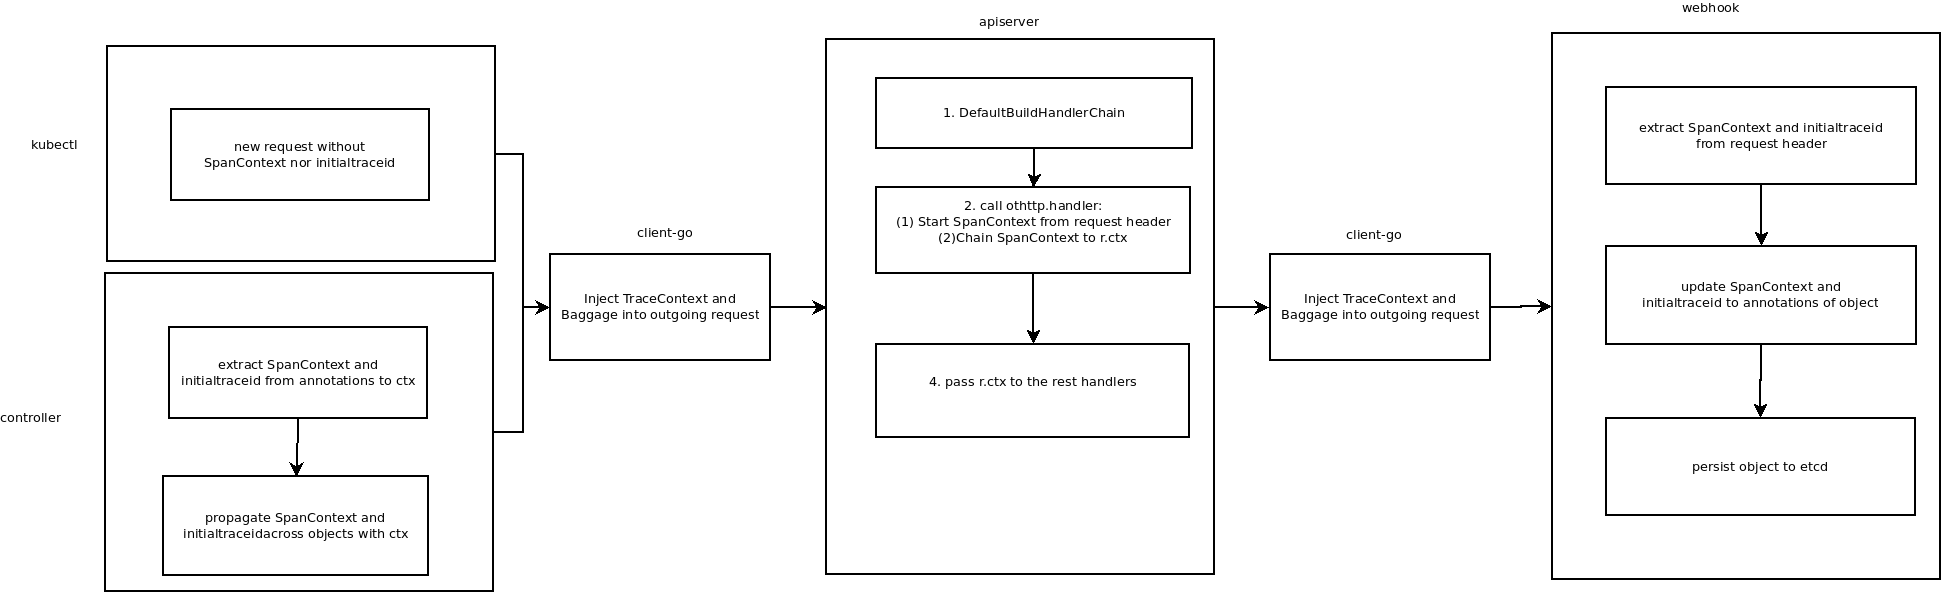
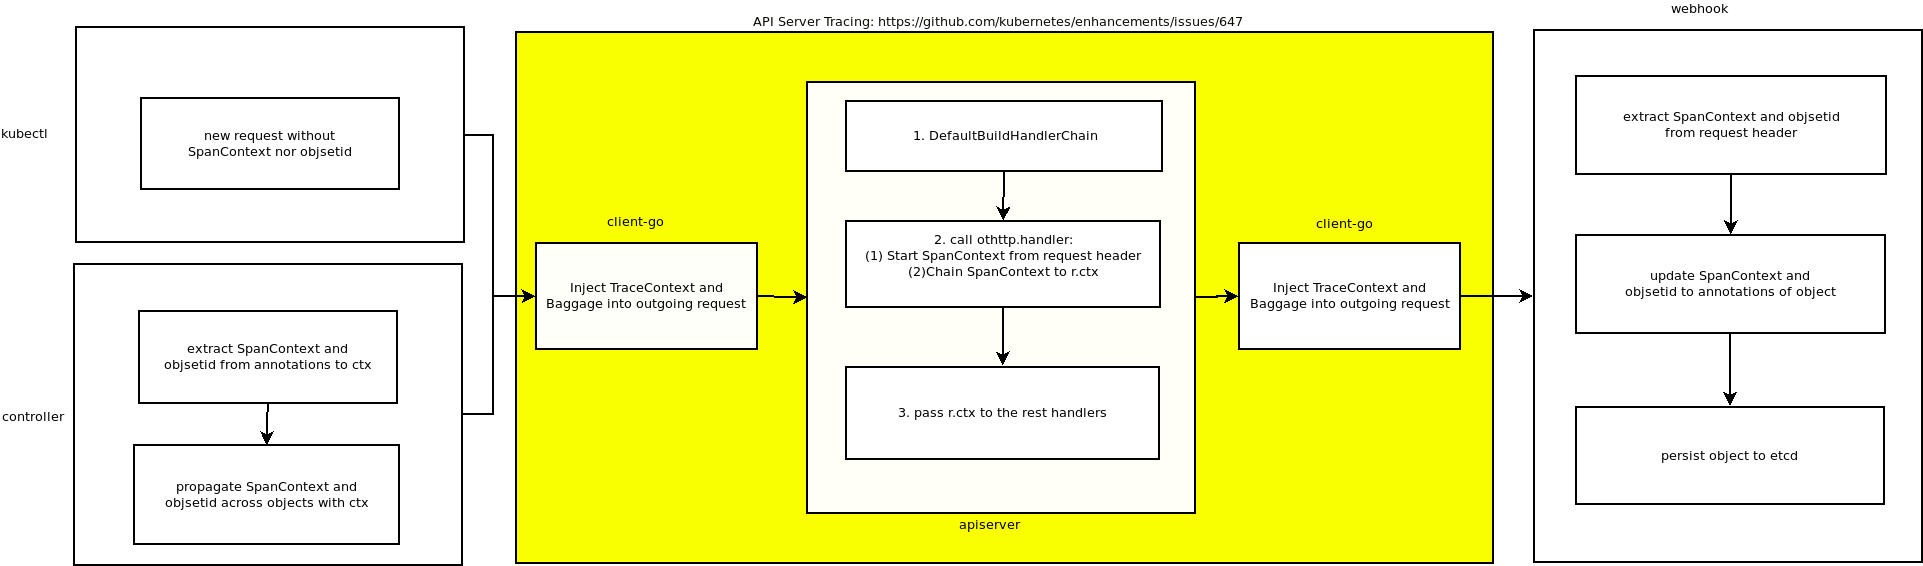
Address comments
- Use objsetid instead initialtraceid[1]
- Update summary[2]
- s/NOTE/Opt-in for Components
- Remove unclear section[3]
- Add Background section[4]
- Update controller section[5]
- Add new section: Behaviors with and without Mutating webhook
- update overview.png
- Move logging metadata to webhook section

[1]: https://github.com/kubernetes/enhancements/pull/1961#discussion_r530735151
[2]: https://github.com/kubernetes/enhancements/pull/1961#discussion_r535489046
[3]: https://github.com/kubernetes/enhancements/pull/1961#discussion_r535493398
[4]: https://github.com/kubernetes/enhancements/pull/1961#discussion_r535493569
[5]: https://github.com/kubernetes/enhancements/pull/1961#discussion_r535519134

diff --git a/keps/sig-instrumentation/1668-log-tracking/README.md b/keps/sig-instrumentation/1668-log-tracking/README.md
@@ -3,23 +3,24 @@
 <!-- toc -->
 - [Release Signoff Checklist](#release-signoff-checklist)
 - [Summary](#summary)
-  - [New three unique logging meta-data](#new-three-unique-logging-meta-data)
-  - [Note](#note)
+  - [New three unique logging metadata](#new-three-unique-logging-metadata)
+  - [Opt-in for Components](#opt-in-for-components)
 - [Motivation](#motivation)
   - [Goals](#goals)
   - [Non-Goals](#non-goals)
+- [Background](#background)
 - [Proposal](#proposal)
   - [User Stories (Optional)](#user-stories-optional)
     - [Story 1](#story-1)
     - [Story 2](#story-2)
   - [Summary of Cases](#summary-of-cases)
-  - [Logging metadata](#logging-metadata)
 - [Design Details](#design-details)
   - [Prerequisite](#prerequisite)
-  - [API Server Tracing](#api-server-tracing)
   - [Design of ID propagation (controller)](#design-of-id-propagation-controller)
-  - [Design of ID propagation in <a href="https://github.com/kubernetes/client-go">client-go</a>](#design-of-id-propagation-in-client-go)
   - [Design of Mutating webhook(Out of tree)](#design-of-mutating-webhookout-of-tree)
+  - [Behaviors with and without Mutating webhook](#behaviors-with-and-without-mutating-webhook)
+    - [with Mutating webhook](#with-mutating-webhook)
+    - [without Mutating webhook](#without-mutating-webhook)
   - [Risks and Mitigations](#risks-and-mitigations)
   - [Test Plan](#test-plan)
   - [Graduation Criteria](#graduation-criteria)
@@ -53,26 +54,24 @@ Items marked with (R) are required *prior to targeting to a milestone / release*
 
 ## Summary
 
-This KEP proposes a method for adding new three unique logging meta-data into K8s component logs.
-It makes us more easy to identify specific logs related to an user request (such as `kubectl apply`) and object (such as Pod, Deployment).
-It is expected to reduce investigation cost greatly when trouble shoothing.
+This KEP proposes a method for adding new three unique logging metadata into annotation of objects and propagating them across components. Then the K8S components have ability to *track/filter* logs of all relevant object sets in need that makes us more easy to identify specific logs related to an user request (such as `kubectl apply`) and object (such as Pod, Deployment).
+It is expected to reduce investigation cost greatly when troubleshooting.
 
-### New three unique logging meta-data
+### New three unique logging metadata
 
-We use three meta-data. These meta-data have different features and are used for troubleshooting from different perspectives.
+We use three metadata. These metadata have different features and are used for troubleshooting from different perspectives.
 
-| meta-data name | feature |
+| metadata name | feature |
 | ------ | ------ |
 | traceid | spans an user request. unique for user's request |
-| spanid | spans a controller action. unique for controller action |
-| initialtraceid | spans the entire object lifecycle. unique for related objects |
+| spanid | spans a controller action. unique for controller actions |
+| objsetid | spans the entire object lifecycle. unique for a related object set |
 
-### Note
+### Opt-in for Components
 
-This KEP is **how** a component could add meta-data to logs. To actually add meta-data to K8s component logs, the following procedure is necessary in addition.
+Updating/changing the logs is outside the scope of this KEP.  To actually add metadata to K8s component logs, the following procedures are needed in addition.
 - Open issues for each component, and discuss them with the SIGs that own that component.
-- After get agreement, utilize this KEP's feature to change the source code that outputs log to add meta-data into these logs.
-Please note that this KEP alone does not change the log format(does not add meta-data to logs).
+- After get agreement, utilize this KEP's feature to change the source code that outputs log to add metadata into these logs.
 
 ## Motivation
 
@@ -82,15 +81,25 @@ If multiple users throw many API requests at the same time, it is very difficult
 
 ### Goals
 
- - Implement method which propagates new logging meta-data among each K8s component
- - Design and implement so as not to interfere with [Tracing KEP](https://github.com/kubernetes/enhancements/pull/1458)
-   - e.g. implement of initialtraceid, adding traceid to object annotation executed in mutating webhook, etc.
+ - Implement method which propagates new logging metadata among each K8s components
+ - Store and update logging metadata into object annotation through mutating admission controller(aka Webhook)
 
 ### Non-Goals
 
  - Add new logging metadata into actual K8s component logs
    - This task will be done by opening  issues after completing this KEP
- - To centrally manage the logs of each Kubernetes component with Request-ID (This can be realized with existing OSS such as Kibana, so no need to implement into Kubernetes components).
+ - To centrally manage the logs of each Kubernetes component with objsetid(This can be realized with existing OSS such as Kibana, so no need to implement into Kubernetes components).
+ - This proposal does not add additional telemetry to any components, just context-based metadata to existing logs. This KEP doesn't require running any additional OpenTelemetry components (such as the OpenTelemetry collector, which the  [API Server Tracing](https://github.com/kubernetes/enhancements/issues/647) KEP uses)
+
+## Background
+It's Known that all requests to K8s will reach API Server first, in order to propogate these metadata to mutating admission controller, we require API Server to support propogating these metadata as well. Fortunately there is already a KEP [API Server Tracing](https://github.com/kubernetes/enhancements/issues/647)  to do this.
+
+```
+Goals
+The API Server generates and exports spans for incoming and outgoing requests.
+The API Server propagates context from incoming requests to outgoing requests.
+```
+So this KEP relies on KEP [API Server Tracing](https://github.com/kubernetes/enhancements/issues/647)
 
 ## Proposal
 
@@ -121,18 +130,6 @@ This log tracking feature is useful to identify the logs related to specific use
  - Given a component log(such as error log), find the API request that caused this (error) log.
  - Given an API Request(such as suspicious API request), find the resulting component logs.
 
-### Logging metadata
-
-We use three logging meta-data, and propagate them each K8s component by using OpenTelemetry.
-OpenTelemetry has SpanContext and [Baggage](https://github.com/open-telemetry/opentelemetry-specification/blob/master/specification/baggage/api.md) which is used for propagation of K8s component.
-
-| meta-data name | feature |
-| ------ | ------ |
-| traceid | We use SpanContext.TraceID as traceid<br>traceid spans an user request.<br>traceid is unique for user's request |
-| spanid | We use SpanContext.SpanID as spanid<br>spanid spans a controller action.<br>spanid is unique for controller action |
-| initialtraceid | We implement new id(InitialTraceID) to SpanContext<br>We use [Baggage](https://github.com/open-telemetry/opentelemetry-specification/blob/master/specification/baggage/api.md) to propagate initialtraceid<br/>We use UID of root object as initialtraceid<br>initialtraceid spans the entire object lifecycle. <br>initialtraceid is unique for related objects |
-
-All of three id's inception is from object creation and it dies with object deletion
 
 ## Design Details
 
@@ -147,66 +144,140 @@ The design below is based on the above three cases
 
 The following picture show our design![design](./overview.png)
 
-
-
 we don't have any modifications in kubectl in this design.
 
-### API Server Tracing
+We use three logging metadata, and propagate them across each K8s component by using [SpanContext](https://pkg.go.dev/go.opentelemetry.io/otel@v0.15.0/trace#SpanContext) and [Baggage](https://github.com/open-telemetry/opentelemetry-specification/blob/master/specification/baggage/api.md)  of OpenTelemetry.
 
-**1. refer to [KEP647](https://github.com/kubernetes/enhancements/issues/647)**
-
-KEP647 will help to
-
-```
-Goals
-The API Server generates and exports spans for incoming and outgoing requests.
-The API Server propagates context from incoming requests to outgoing requests.
-```
-
-**2. [Make up a new outgoing request](#design-of-id-progagation-in-client-go)**
 
 ### Design of ID propagation (controller)
+In controller side, we don't update the object annotation any more, instead, we just focus on how to propagate the new logging metadata across objects. And with the help of KEP [API Server Tracing](https://github.com/kubernetes/enhancements/issues/647) , the new logging metadata can be propagated across K8s components.
 
-**1. Propagate golang ctx from objects to API Calls**
+**1. New context propagation library function**
 
-When controllers create/update/delete an object A based on another B, we propagate context from B to A. E.g.:
-```
-    ctx = httptrace.SpanContextFromAnnotations(context.Background(), objB.GetAnnotations())
-    err = r.KubeClient.CoreV1().Create(ctx, objA...)
-```
-We do propagation across objects without adding traces to that components.
+A new API `SpanContextWithObject` is introduced to return a `context.Context` which includes a Span and a Baggage according to the passed object.
 
-SpanContextFromAnnotations will do something like below pseudo code
 ```
-func SpanContextFromAnnotations(){
-	// 1. decode annotation to SpanContext
-	// 2. generate Span from SpanContext
-	// 3. chain Span to ctx which is required by propagators.Inject
+func SpanContextWithObject(ctx context.Context, meta metav1.Object) context.Context
+```
+it does something like below pseudo code:
+```
+// SpanContextWithObject returns a `context.Context` which includes a Span and a Baggage
+func SpanContextWithObject(ctx context.Context, meta metav1.Object) context.Context{
+	// 1. extract baggage from annotation and chain it to ctx
+	// 2. extract SpanContext from annotation
+	// 3. generate Span from SpanContext
+	// 4. chain Span to ctx which is required by propagators.Inject
 }
 ```
-**2. [Make up a new outgoing request](#design-of-id-progagation-in-client-go)**
+**2. Propagate Span and Baggage with context.Context across objects**
 
-### Design of ID propagation in [client-go](https://github.com/kubernetes/client-go)
+When controllers create/update/delete an object A based on another B, we propagate context from B to A. Below is an example to show how deployment propagate Span and Baggage to replicaset.
 
-[KEP647](https://github.com/kubernetes/enhancements/issues/647) will do this work too, so we can refer to it directly in the future.
-client-go helps to inject [TraceContext](https://pkg.go.dev/go.opentelemetry.io/otel/propagators#example-TraceContext) and [Baggage](https://github.com/open-telemetry/opentelemetry-specification/blob/master/specification/baggage/api.md) to the outgoing http request header with API [RoundTrip](https://pkg.go.dev/go.opentelemetry.io/contrib/instrumentation/net/http#Transport.RoundTrip).
+```diff
+ func (dc *DeploymentController) getNewReplicaSet(d *apps.Deployment, rsList, oldRSs []*apps.ReplicaSet, createIfNotExisted bool) (*apps.ReplicaSet, error) {
++       ctx := httptrace.SpanContextWithObject(context.Background(), d)
+        existingNewRS := deploymentutil.FindNewReplicaSet(d, rsList)
+@@ -220,7 +227,8 @@ func (dc *DeploymentController) getNewReplicaSet(d *apps.Deployment, rsList, old
+        // hash collisions. If there is any other error, we need to report it in the status of
+        // the Deployment.
+        alreadyExists := false
+-       createdRS, err := dc.client.AppsV1().ReplicaSets(d.Namespace).Create(context.TODO(), &newRS, metav1.CreateOptions{})
++       createdRS, err := dc.client.AppsV1().ReplicaSets(d.Namespace).Create(ctx, &newRS, metav1.CreateOptions{})
+```
+In order to propagate context across all objects we concerned , we also need to change some APIs by adding `ctx context.Context` to parameter list whose parameters doesn't contain context.Context yet. Below APIs will be impacted so far.
 
-apiserver and controllers use this API to make up a new outgoing request.
+| APIs                          | file name                                                    |
+| ----------------------------- | ------------------------------------------------------------ |
+| createPods()                  | pkg/controller/controller_utils.go                           |
+| CreatePodsWithControllerRef() | pkg/controller/controller_utils.go<br />pkg/controller/replication/conversion.go<br />pkg/controller/daemon/daemon_controller.go<br />pkg/controller/replication/conversion.go |
+
+**3. How to log the metadata from a context.Context**
+
+Please note that changing the log is *not* the scope of this KEP. In the feature, we can get the metadata and change the log like below accordingly.
+
+```
+spanctx := apitrace.SpanContextFromContext(ctx)
+objSetID := otel.BaggageValue(ctx, "objectSetID").AsString()
+klog.V(2).Infof("ObjectSetID: %s, TraceID: %s, SpanID: %s\n", objSetID, spanctx.TraceID, spactx.SpanID)
+```
 
 ### Design of Mutating webhook(Out of tree)
+We use mutating admission controller(aka webhook)  to change/update the object annotation. It takes advantages of:
 
-**1.Extract SpanContext and initialtraceid from request's header**
+- Ease of use. Using client-go with a context.Context is easier than adding an annotation. The webhook takes care of writing the annotation.
+- Object to object context propagation. Without the mutating admission controller, we can only associate actions from a single object. With the mutating admission controller, the logging metadata would be added for objects modified by controllers of the initial object (e.g. metadata added to a deployment annotation would appear in pod logs).
 
-**2.Update SpanContext and initialtraceid to object**
+**Logging metadata**
+
+below table show how these 3 logging metadata map to the SpanContext and Baggage of OpenTelemetry.
+| metadata name | feature |
+| ------ | ------ |
+| traceid | We use SpanContext.TraceID as traceid<br>traceid spans an user request.<br>traceid is unique for user's request |
+| spanid | We use SpanContext.SpanID as spanid<br>spanid spans a controller action.<br>spanid is unique for controller action |
+| objsetid | We implement new id(objsetid) to SpanContext<br>We use [Baggage](https://github.com/open-telemetry/opentelemetry-specification/blob/master/specification/baggage/api.md) to propagate objsetid<br/>We use UID of root object as objsetid<br>objsetid spans the entire object lifecycle. <br>objsetid is unique for related object set. |
+
+All of three id's inception is from object creation and it dies with object deletion
+
+
+These 3 logging metadata are stored  with 2 pairs of key/value in annotation.
+
+| key                          | example value                                           | description                                                  |
+| ---------------------------- | ------------------------------------------------------- | ------------------------------------------------------------ |
+| trace.kubernetes.io/span     | 00-ca057eae1a26b66314fe3e361eedc5ca-3696483da6bfdcea-00 | it consists of `<version>-<traceid>-<spanid>-<flag>`. <br />A corresponding http header field is like `traceparent: 00-ca057eae1a26b66314fe3e361eedc5ca-3696483da6bfdcea-00` which is a w3c specific [trace-context](https://w3c.github.io/trace-context/#traceparent-header ). <br />2 metadata(`traceid` and `spanid`) are stored here. |
+| trace.kubernetes.io/objsetid | 04bc5995-0147-4db8-9f06-fdbcb2e1a087                    | A corresponding http header field is like `baggage: objectSetID=04bc5995-0147-4db8-9f06-fdbcb2e1a087` which is a w3c specific [Baggage](https://w3c.github.io/baggage/#examples-of-http-headers).<br />It stores metadata `objsetid`. |
+
+Roughly this webhook do something like below:
+
+**1.Extract SpanContext and objsetid from request's header**
+
+**2.Update SpanContext and objsetid to object annotation**
 
 - For traceid and spanid and traceflags(sampled/not sampled)
 
-Always set the trace context annotation based on the incoming request.
+    Always update `trace.kubernetes.io/span` annotation based on the incoming request.
 
-- For initialtraceid
+- For objsetid
 
-if initialtraceid is nil,  Use the UID of object as initialtraceid, else, leave initialtraceid as it is.
+    if objsetid is nil,  Use the UID of object as objsetid, else, leave objsetid as it is. Update it to `trace.kubernetes.io/objsetid` in need.
 
+### Behaviors with and without Mutating webhook
+Since the mutating webhook is optional for users, we will explain the different behaviors between with and without mutating webhook.
+
+#### with Mutating webhook
+
+**kubectl request**:
+
+- APIServer uses otel to start a new Span
+- APIServer uses otel to propagate SpanContext to the other end(webhook)
+- Webhook generates an objsetid
+- Webhook persists SpanContext and objsetid to object
+
+**controllers request:**
+
+- Controller uses otel to start a related Span, which connected to the SpanContext in object
+- Controller uses otel to propagate Baggage(objsetid)  stored in object and SpanContext  to the other end(APIServer)
+- APIServer uses otel  to start a related Span, which connected to the SpancContext from the  incoming request
+- APIServer uses otel to propagate SpanContext and Baggage(objsetid) to the other end(webhook)
+- Webhook persists SpanContext and objsetid to object
+
+#### without Mutating webhook
+
+**kubectl request:**
+
+- APIServer uses otel to start a new Span
+- APIServer uses otel to propagate SpanContext to the other end
+- ~~Webhook generates an objsetid~~
+- ~~Webhook persists SpanContext and objsetid to object~~
+
+**controllers request:**
+
+- Controller start uses otel to start a new Span
+- Controller uses otel to propagate SpanContext  to the other end(APIServer)
+- APIServer uses otel  to start related Span, which connected to the SpancContext from the  incoming request
+- APIServer uses otel to propagate SpanContext to the other end
+- ~~Webhook persists SpanContext and objsetid to object~~
+
+In short, the webhook decides whether to add logging metadata to the object.
 
 ### Risks and Mitigations
 
